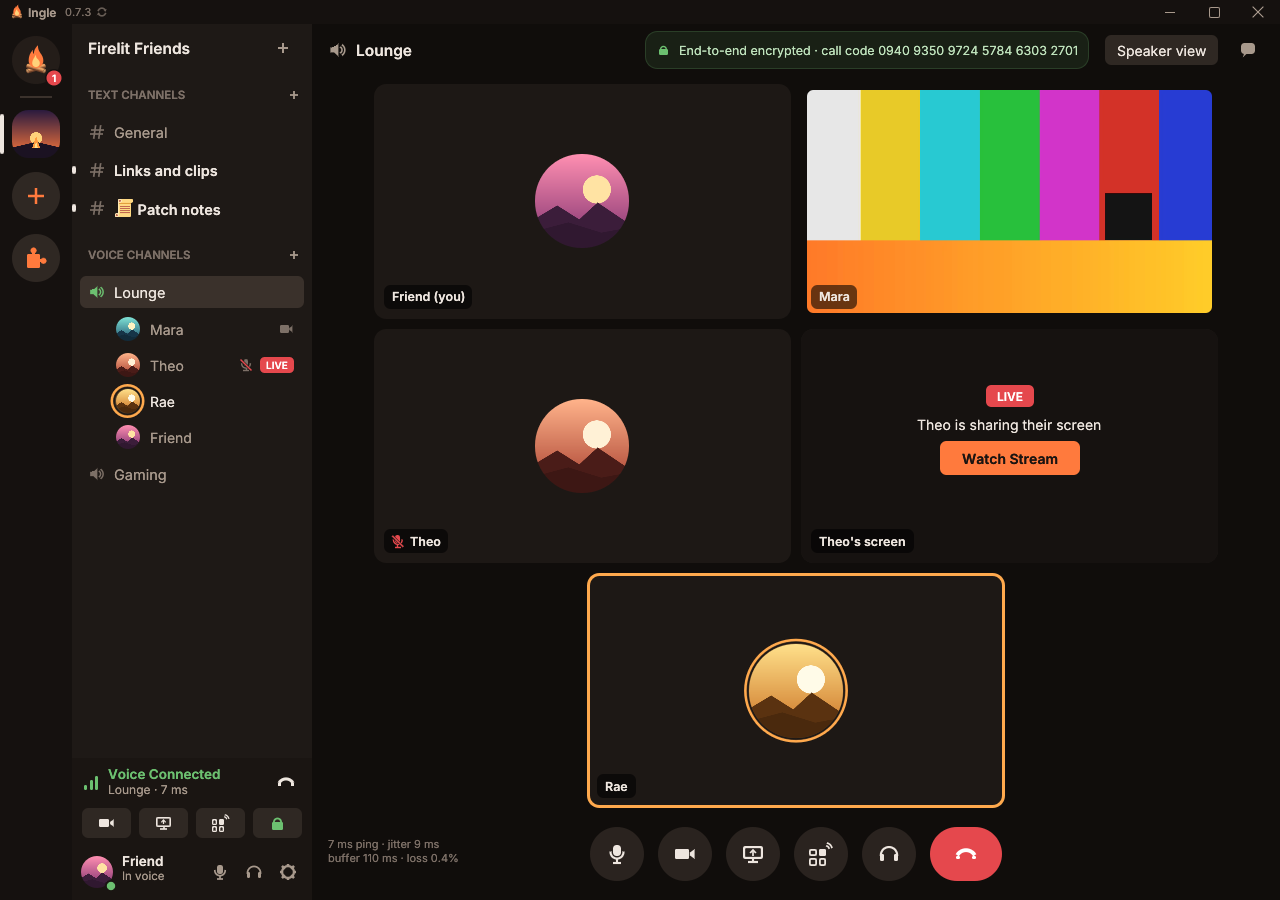
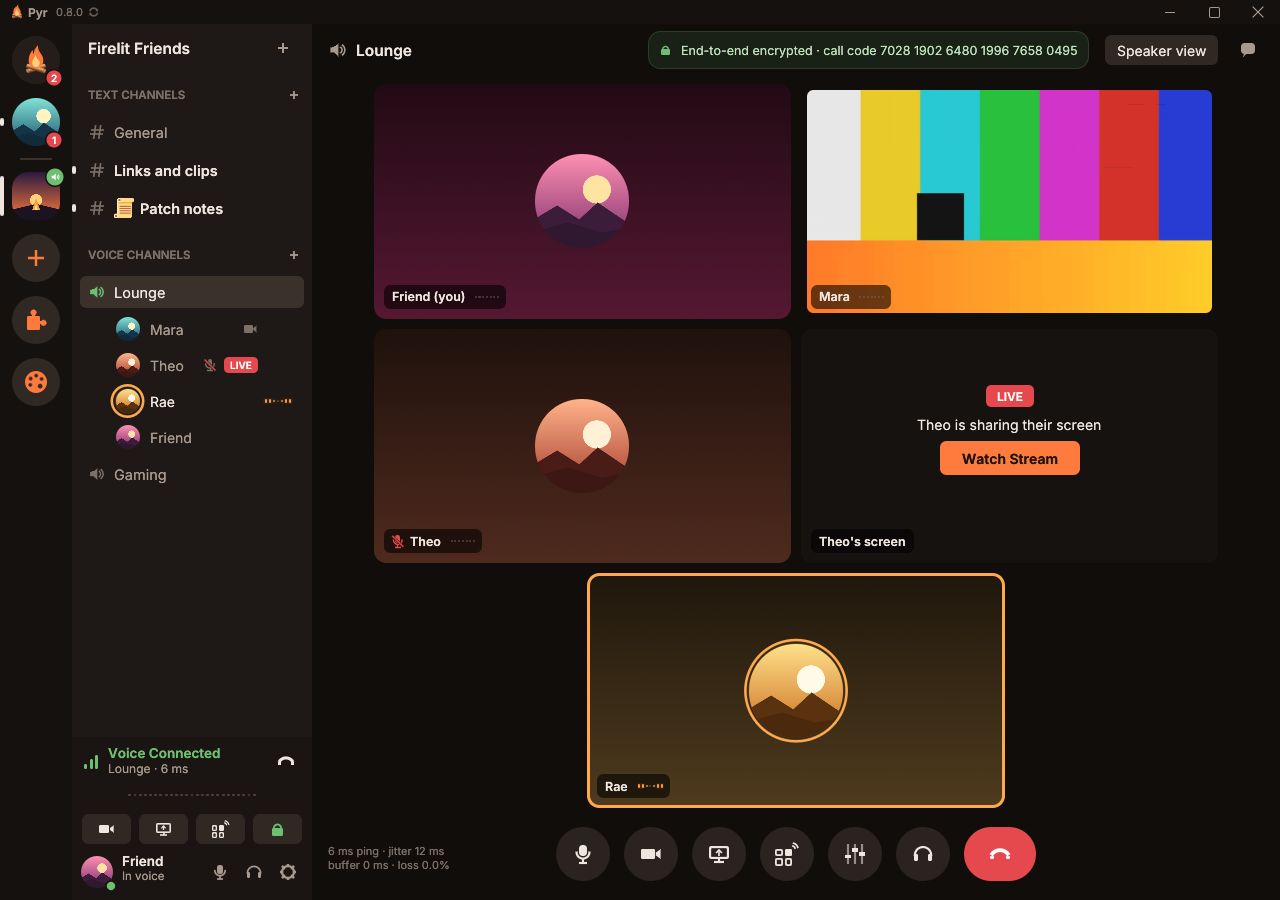
README and website pictures as Pyr 0.8.0, and Blood Moon 1.2
Every README screenshot taken again with Pyr 0.8.0 (the title bar said Ingle 0.7.3): a text channel, direct messages, a group call with Mara still ringing, a voice channel with a camera and a screen share, the soundboard, Go Live, the Library (now with Firelit Poker) and renting a server. The website's pictures that showed Ingle are new too (the window, the chat, the soundboard, Go Live, renting a server, Blood Moon), and so is the link preview (og.jpg), drawn by tools/make-og-image.py from tools/og-image.html.

Blood Moon 1.2 in the Library: only its preview picture is new (Pyr's window instead of Ingle's).

The demo community (crates/engine/examples/demo.rs) has Sam, who's offline, and its patch notes are about 0.8.0.

Claude-Session: https://claude.ai/code/session_01YHn1eQ87uNra2osjz6EaSo

diff --git a/tools/og-image.html b/tools/og-image.html
@@ -1,0 +1,33 @@
+<!doctype html>
+<html><head><meta charset="utf-8">
+<style>
+@font-face { font-family: "Bricolage"; src: url(assets/fonts/bricolage-grotesque.woff2) format("woff2"); font-weight: 200 800; }
+@font-face { font-family: "Inter"; src: url(assets/fonts/inter.woff2) format("woff2"); font-weight: 100 900; }
+@font-face { font-family: "Instrument Serif"; src: url(assets/fonts/instrument-serif-italic.woff2) format("woff2"); font-style: italic; }
+html, body { margin: 0; width: 1200px; height: 630px; overflow: hidden; background: #100c0a; }
+body { position: relative; font-family: Inter, sans-serif; color: #dccfc4;
+  background:
+    radial-gradient(620px 420px at 78% 70%, rgba(255, 110, 45, .32), transparent 70%),
+    radial-gradient(900px 380px at 30% 120%, rgba(255, 90, 40, .30), transparent 70%),
+    radial-gradient(500px 300px at 0% 0%, rgba(255, 170, 90, .12), transparent 70%),
+    #100c0a; }
+.brand { position: absolute; left: 64px; top: 56px; display: flex; align-items: center; gap: 14px; font: 750 32px/1 Bricolage; color: #f6eee7; letter-spacing: -.02em; }
+.brand img { width: 52px; height: 52px; border-radius: 13px; }
+.brand span { font: 500 17px/1 Inter; color: #8f8175; letter-spacing: 0; margin-left: 4px; margin-top: 6px; }
+h1 { position: absolute; left: 64px; top: 150px; width: 560px; margin: 0; font: 760 66px/1.02 Bricolage; letter-spacing: -.035em; color: #f6eee7; }
+h1 em { font: italic 400 1.12em/1 "Instrument Serif"; letter-spacing: -.01em;
+  background: linear-gradient(100deg, #ffd08a 0%, #ffb347 30%, #ff7a3d 62%, #ff5b3a 100%); -webkit-background-clip: text; background-clip: text; color: transparent; }
+.sub { position: absolute; left: 64px; bottom: 64px; display: flex; gap: 10px; flex-wrap: wrap; width: 600px; }
+.sub span { padding: 9px 15px; border-radius: 999px; font: 600 17px/1 Inter; color: #f0e2d6; background: rgba(255, 236, 220, .07); border: 1px solid rgba(255, 214, 180, .16); }
+.sub span.hot { color: #1d120b; background: linear-gradient(180deg, #ffc27a, #ff7a3d); border: 0; }
+.shot { position: absolute; right: -70px; top: 92px; width: 640px; perspective: 1400px; }
+.win { border-radius: 14px; overflow: hidden; border: 1px solid rgba(255, 214, 180, .16); transform: rotateY(-14deg) rotateX(6deg);
+       box-shadow: 0 40px 100px -30px rgba(0, 0, 0, .9), 0 30px 80px -30px rgba(255, 100, 40, .45); background: #1b1512; }
+.win img { display: block; width: 100%; }
+</style></head>
+<body>
+  <div class="brand"><img src="pyr-icon.png" alt="">Pyr<span>by Firelit Games</span></div>
+  <h1>Hang out with your friends on a server <em>you own.</em></h1>
+  <div class="sub"><span class="hot">Free</span><span>Voice channels</span><span>1080p60 streams</span><span>No account</span></div>
+  <div class="shot"><div class="win"><img src="assets/img/chat.webp" alt=""></div></div>
+</body></html>

diff --git a/installer/site/index.html b/installer/site/index.html
@@ -596,7 +596,7 @@ dialog[open] { animation: pop .35s var(--ease); }
         <h3>Stream at 1080p and 60 fps. Free.</h3>
         <p>Share your whole screen or one window, with a live preview first. Go up to 1080p60, or 1440p for sharp text. Friends choose to watch, so a stream only uses bandwidth for the people watching it.</p>
         <div class="tags"><span class="tag hot">1080p · 60 fps</span><span class="tag">1440p · 30 fps</span><span class="tag">Stream sound on Windows</span><span class="tag">Several streams at once</span></div>
-        <div class="shot"><img src="assets/img/go-live-dialog.webp" width="606" height="646" alt="The Share your screen window: pick a screen or window, check the preview, and choose 1080p 60fps." loading="lazy"></div>
+        <div class="shot"><img src="assets/img/go-live-dialog.webp" width="606" height="645" alt="The Share your screen window: pick a screen or window, check the preview, and choose 1080p 60fps." loading="lazy"></div>
       </article>
 
       <article class="card t-voice" data-reveal>

diff --git a/tools/make-og-image.py b/tools/make-og-image.py
@@ -1,0 +1,59 @@
+#!/usr/bin/env python3
+"""Draws the website's link-preview picture, installer/site/assets/img/og.jpg (1200x630, what
+chat apps and social sites show for a pyr.gg link), from tools/og-image.html, which puts the
+site's chat screenshot (assets/img/chat.webp) beside Pyr's name. Run it after that screenshot
+changes:
+
+    python3 tools/make-og-image.py
+
+Needs Playwright for Python with its Chromium, and Pillow."""
+import functools
+import http.server
+import os
+import tempfile
+import threading
+
+from PIL import Image
+from playwright.sync_api import sync_playwright
+
+ROOT = os.path.dirname(os.path.dirname(os.path.abspath(__file__)))
+SITE = os.path.join(ROOT, "installer", "site")
+TEMPLATE = os.path.join(ROOT, "tools", "og-image.html")
+OUT = os.path.join(SITE, "assets", "img", "og.jpg")
+
+
+class Site(http.server.SimpleHTTPRequestHandler):
+    """The site's folder, plus the template at /og-image.html (so its pictures and fonts load)."""
+
+    def log_message(self, *args):
+        pass
+
+    def translate_path(self, path):
+        if path.split("?")[0] == "/og-image.html":
+            return TEMPLATE
+        return super().translate_path(path)
+
+
+def main():
+    server = http.server.ThreadingHTTPServer(("127.0.0.1", 0), functools.partial(Site, directory=SITE))
+    threading.Thread(target=server.serve_forever, daemon=True).start()
+    try:
+        with tempfile.TemporaryDirectory() as tmp:
+            png = os.path.join(tmp, "og.png")
+            with sync_playwright() as p:
+                browser = p.chromium.launch()
+                page = browser.new_page(viewport={"width": 1200, "height": 630}, device_scale_factor=1)
+                page.goto(f"http://127.0.0.1:{server.server_address[1]}/og-image.html")
+                page.wait_for_load_state("networkidle")
+                page.evaluate("document.fonts.ready")
+                page.wait_for_timeout(500)
+                page.screenshot(path=png)
+                browser.close()
+            Image.open(png).convert("RGB").save(OUT, quality=86, optimize=True, progressive=True)
+    finally:
+        server.shutdown()
+    print(f"wrote {OUT}")
+
+
+if __name__ == "__main__":
+    main()

diff --git a/crates/engine/examples/demo.rs b/crates/engine/examples/demo.rs
@@ -21,6 +21,8 @@
 //! answer calls ringing for them (or, the ones in `--decline`, say no), a few seconds after
 //! they start ringing (`--after`, and two more for each one after the first).
 //!
+//! `setup` also has Sam join once (so someone's offline).
+//!
 //! `--me` is the config folder of the app profile the screenshots are taken with: `setup`
 //! uses its identity to make the server as its owner ("Friend"), so run it before opening
 //! that profile. `--assets` holds friend.png, mara.png, theo.png, rae.png, kai.png (profile
@@ -174,6 +176,11 @@ fn setup() -> Result<()> {
     for n in FRIENDS {
         wait("everyone", 15, || uid_of(&me, &key, n))?;
     }
+    // Sam joined once and is offline (no picture).
+    let sam = person(&dir_of("Sam"), "Sam", None)?;
+    join(&sam, &invite)?;
+    wait("Sam", 15, || uid_of(&me, &key, "Sam"))?;
+    sam.shutdown();
     me.set_member_roles(&key, &uid_of(&me, &key, "Mara").unwrap(), vec![mods]);
     for n in ["Theo", "Rae"] {
         me.set_member_roles(&key, &uid_of(&me, &key, n).unwrap(), vec![crew]);
@@ -210,7 +217,7 @@ fn setup() -> Result<()> {
         say(mara, &key, links, "Friday bracket: reply here to sign up 👇", None)?;
     }
     if let Some(notes) = channel(theo, &key, "📜 Patch notes") {
-        say(theo, &key, notes, "@Friend 0.7.2 is out: plugins! Get Dice from the library and try /roll 2d6+1", None)?;
+        say(theo, &key, notes, "@Friend 0.8.0 is out: we're Pyr now, and invites are short pyr.gg links", None)?;
     }
 
     // Friends: Rae and Kai (accepted), Theo (waiting for you), and Mara messages you.

diff --git a/crates/app/src/plugins/library.rs b/crates/app/src/plugins/library.rs
@@ -1,4 +1,4 @@
-//! The Pyr Library's list of plugins: fetched from firelitgames.com, believed only with
+//! The Pyr Library's list of plugins: fetched from pyr.gg, believed only with
 //! Firelit Games' signature (the release key) and within its dates, and kept on this PC so
 //! the Plugins page has something to show offline.
 

diff --git a/README.md b/README.md
@@ -202,7 +202,7 @@ a `.deb` for Ubuntu, Linux Mint, Pop!_OS and Debian). Made by
   Make your own (on the Plugins or Skins page) shows whether yours were approved, with the
   reviewer's note. How to make a skin: [`skins/`](skins).
 
-![The Pyr Library: Chimbrowser and Dice](docs/screenshots/plugins.png)
+![The Pyr Library: Chimbrowser, Dice and Firelit Poker, with Dice's panel open](docs/screenshots/plugins.png)
 
 **The app**
 
